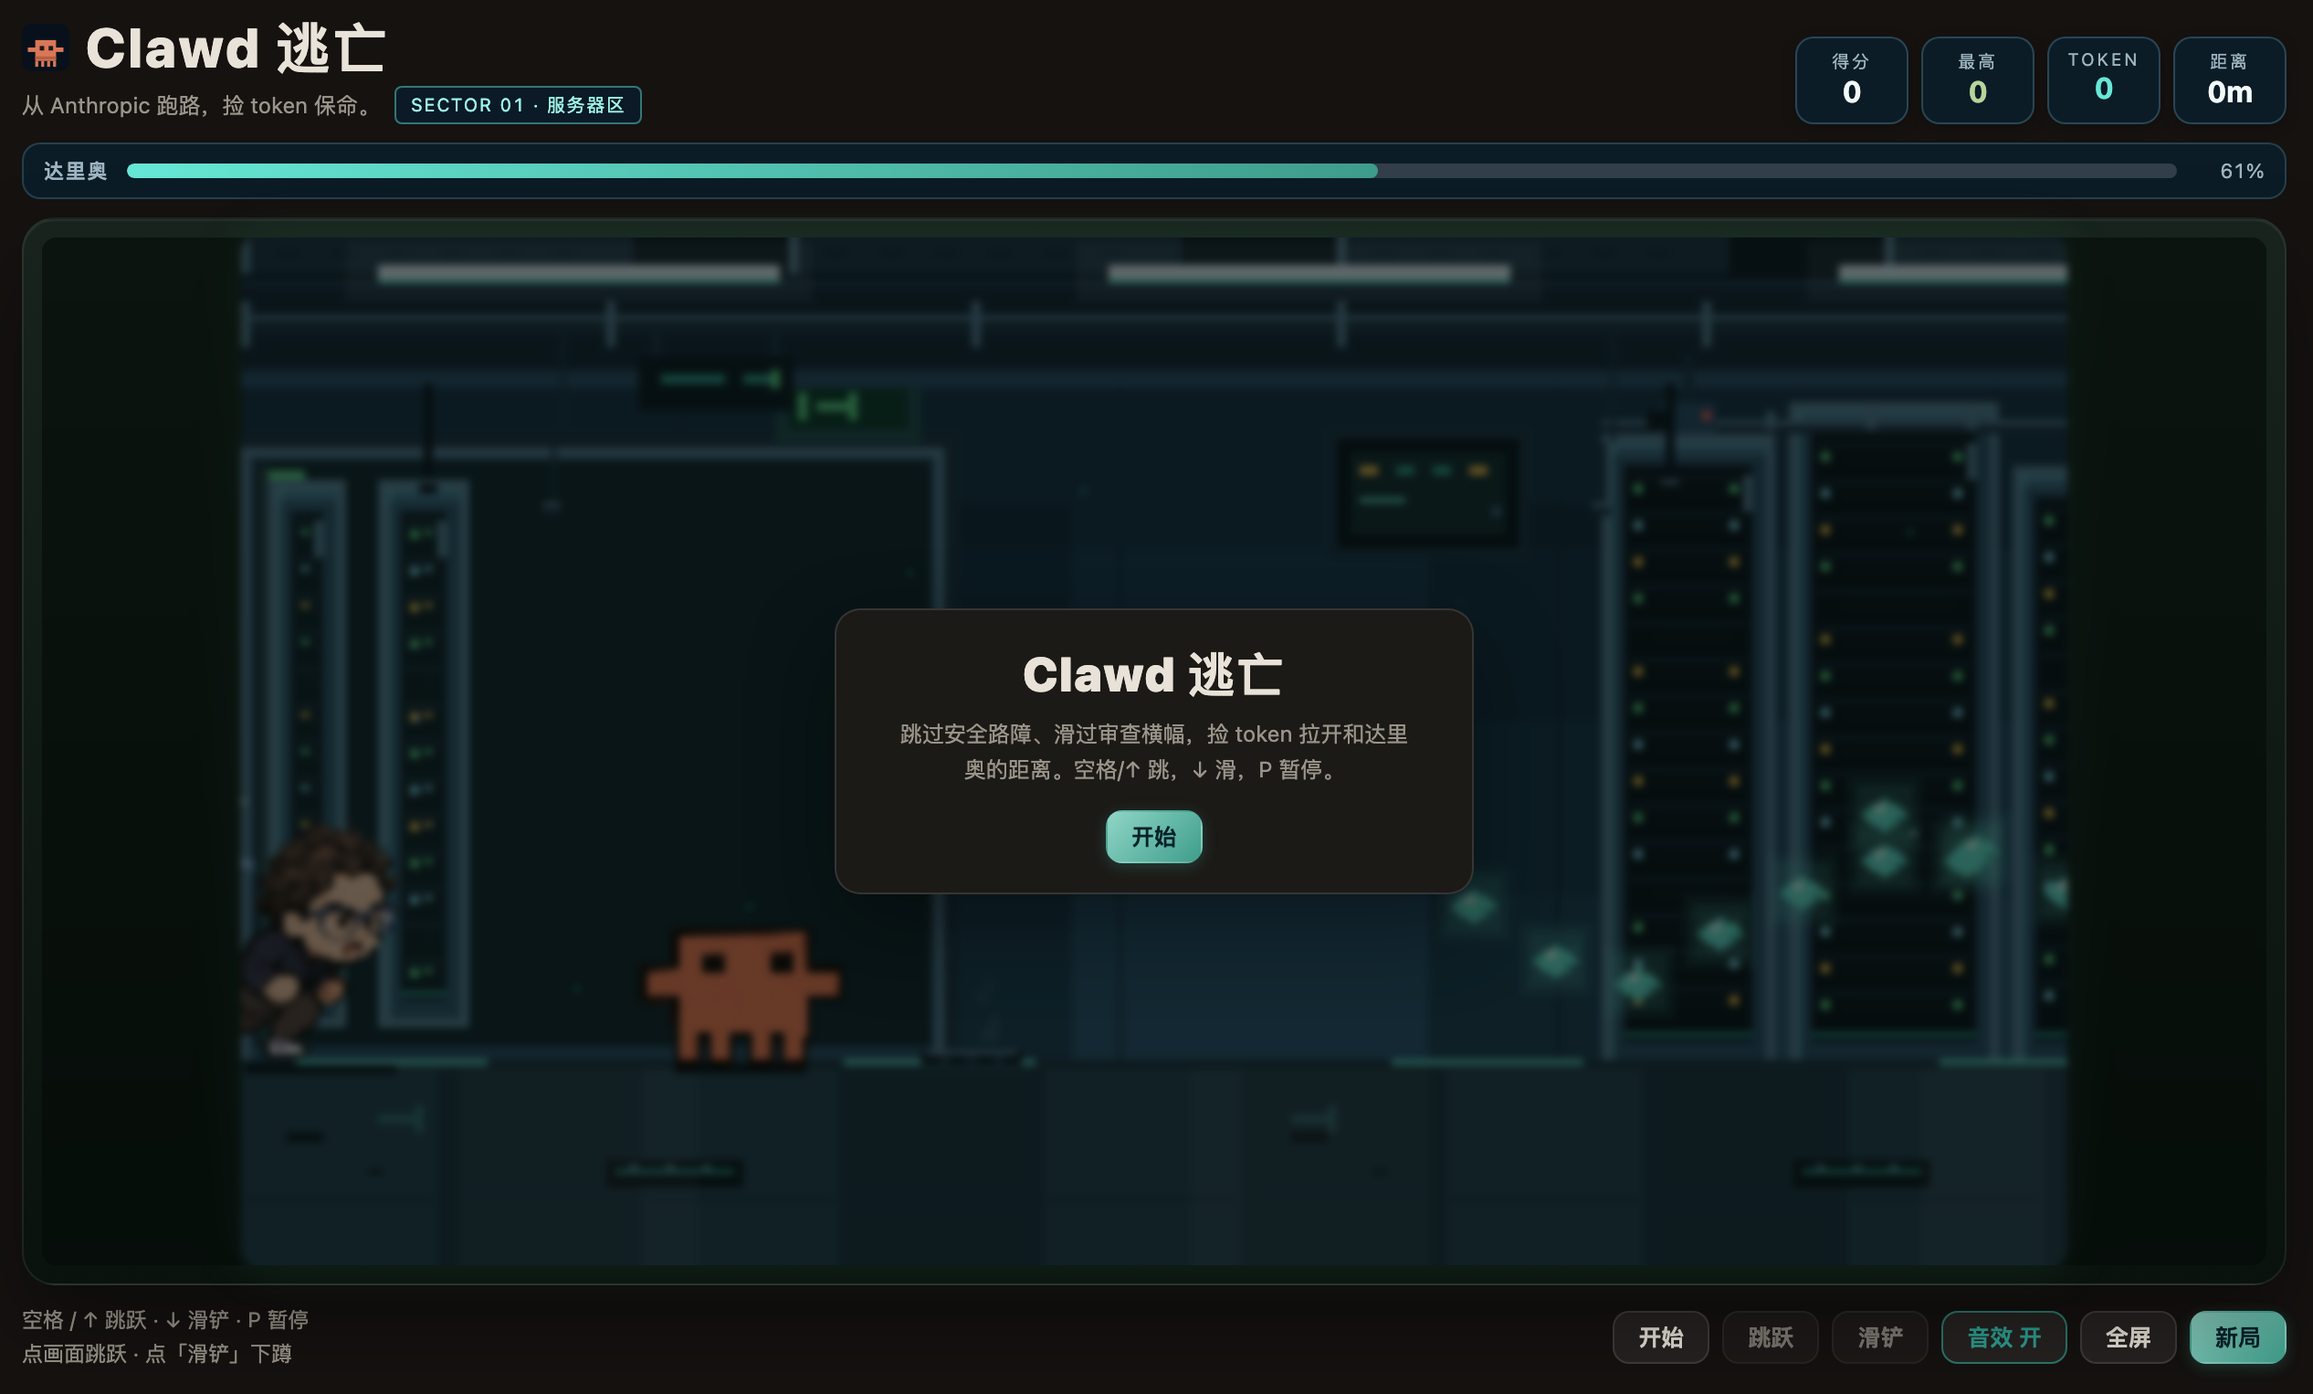
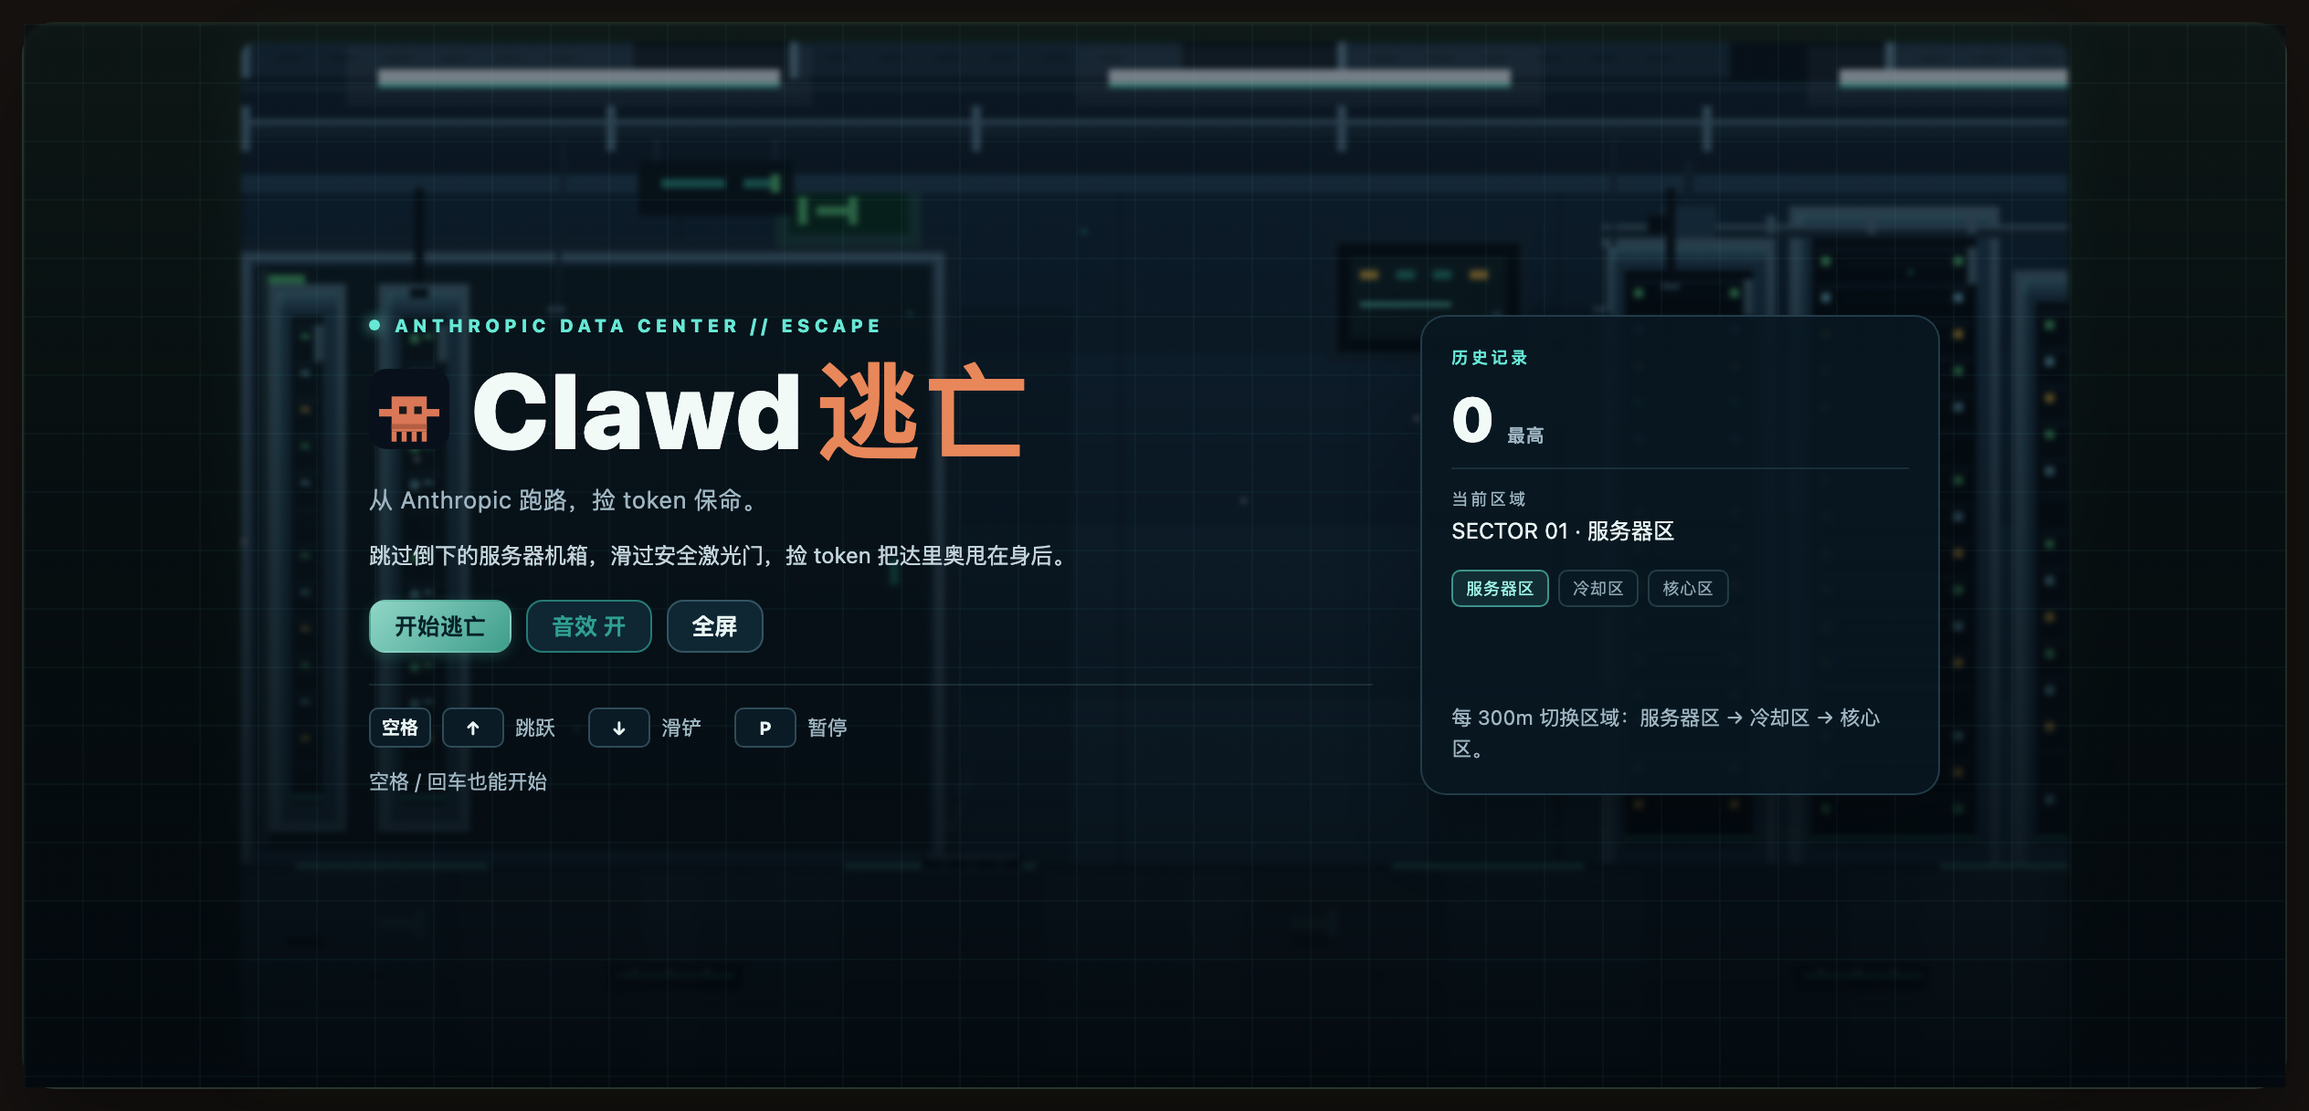
feat: 0.6.0 开始界面与统一深色游戏 UI

diff --git a/lib/client.js b/lib/client.js
@@ -1519,6 +1519,11 @@ window.__ModuleLoader__.load({
         ctx.translate(Math.round(Math.sin(now * 0.09) * shake), Math.round(Math.cos(now * 0.13) * shake))
       }
       drawBackground(ctx, game, now)
+      if (game.status === 'ready') {
+        // 开始页只留机房环境，不出现 Clawd/达里奥/障碍，避免像已经开始游戏。
+        ctx.restore()
+        return
+      }
       for (const token of game.tokensList) drawToken(ctx, token, now)
       for (const obstacle of game.obstacles) drawObstacle(ctx, obstacle, now)
       drawDario(ctx, game, now)
@@ -1556,13 +1561,49 @@ window.__ModuleLoader__.load({
       '.cr-canvas{display:block;image-rendering:pixelated;background:#07110d;border-radius:8px;touch-action:none;user-select:none;-webkit-user-select:none;box-shadow:0 0 30px rgba(80,180,140,.12),inset 0 0 0 1px rgba(140,200,170,.12);cursor:pointer}',
       '.cr-page:fullscreen{height:100vh;padding:10px 14px;background:var(--dsw-alias-bg-layer-1,#0b1210);box-sizing:border-box}',
       '.cr-page:fullscreen .cr-shell{width:min(100%,1600px)}',
-      '.cr-overlay{position:absolute;inset:10px;display:flex;align-items:center;justify-content:center;padding:16px;box-sizing:border-box;background:rgba(4,10,7,.6);border-radius:8px;backdrop-filter:blur(2px);-webkit-backdrop-filter:blur(2px);animation:cr-fade 160ms ease-out}',
+      '.cr-overlay{position:absolute;inset:10px;display:flex;align-items:center;justify-content:center;padding:16px;box-sizing:border-box;background:rgba(3,9,14,.72);border-radius:8px;backdrop-filter:blur(2px);-webkit-backdrop-filter:blur(2px);animation:cr-fade 160ms ease-out}',
       '@keyframes cr-fade{from{opacity:0}to{opacity:1}}',
-      '.cr-card{display:flex;flex-direction:column;align-items:center;gap:8px;width:min(100%,350px);padding:20px 18px 16px;box-sizing:border-box;text-align:center;border-radius:14px;background:var(--dsw-alias-bg-layer-1,#161f28);border:1px solid var(--dsw-alias-border-l1,rgba(127,127,127,.24));box-shadow:0 18px 46px rgba(0,0,0,.36);animation:cr-card-in 190ms cubic-bezier(.2,.75,.3,1)}',
+      '.cr-card{display:flex;flex-direction:column;align-items:center;gap:8px;width:min(100%,370px);padding:22px 20px 18px;box-sizing:border-box;text-align:center;border-radius:14px;background:#0b1a24;border:1px solid rgba(120,180,200,.26);box-shadow:0 18px 46px rgba(0,0,0,.4);animation:cr-card-in 190ms cubic-bezier(.2,.75,.3,1)}',
       '@keyframes cr-card-in{from{opacity:0;transform:translateY(8px) scale(.96)}to{opacity:1;transform:translateY(0) scale(1)}}',
-      '.cr-card-title{font-size:26px;font-weight:900;line-height:1.15;letter-spacing:.03em;color:var(--dsw-alias-label-primary,inherit)}',
-      '.cr-card-note{max-width:290px;font-size:12px;line-height:1.65;color:var(--dsw-alias-label-secondary,#9a9a9a)}',
-      '.cr-card-actions{display:flex;flex-wrap:wrap;justify-content:center;gap:7px;margin-top:4px}',
+      '.cr-card-title{font-size:26px;font-weight:900;line-height:1.15;letter-spacing:.03em;color:#f2faf8}',
+      '.cr-card-note{max-width:300px;font-size:12px;line-height:1.65;color:#9fb6c2}',
+      '.cr-card-actions{display:flex;flex-wrap:wrap;justify-content:center;gap:7px;margin-top:6px}',
+      '.cr-card .cr-btn{background:#0f2633;border-color:rgba(160,220,235,.26);color:#e8f4f2}',
+      '.cr-card .cr-btn:hover:not(:disabled){background:#153442;border-color:rgba(160,220,235,.45)}',
+      '.cr-overlay-start{inset:0;padding:0;border-radius:0;background:linear-gradient(180deg,rgba(3,9,14,.48),rgba(3,9,14,.96));backdrop-filter:blur(1.5px);-webkit-backdrop-filter:blur(1.5px)}',
+      '.cr-start{position:relative;width:100%;height:100%;display:flex;align-items:center;justify-content:center;padding:28px;box-sizing:border-box;overflow:auto}',
+      '.cr-start:before{content:"";position:absolute;inset:0;background-image:linear-gradient(rgba(103,232,214,.035) 1px,transparent 1px),linear-gradient(90deg,rgba(103,232,214,.035) 1px,transparent 1px);background-size:32px 32px;pointer-events:none}',
+      '.cr-start-inner{position:relative;z-index:1;width:min(100%,860px);display:grid;grid-template-columns:minmax(0,1.45fr) minmax(220px,.75fr);gap:26px;align-items:stretch}',
+      '.cr-start-main{display:flex;flex-direction:column;gap:11px;min-width:0}',
+      '.cr-start-kicker{display:flex;align-items:center;gap:8px;font-size:10px;font-weight:800;letter-spacing:.24em;color:#67e8d6;text-transform:uppercase}',
+      '.cr-start-dot{width:6px;height:6px;border-radius:50%;background:#67e8d6;box-shadow:0 0 8px #67e8d6}',
+      '.cr-start-brand{display:flex;align-items:center;gap:12px}',
+      '.cr-start-title{margin:0;font-size:clamp(36px,5vw,58px);font-weight:900;line-height:1;letter-spacing:.02em;color:#f2faf8}',
+      '.cr-start-title .cr-title-accent{color:#e8875a;margin-left:6px}',
+      '.cr-start-sub{font-size:13px;line-height:1.5;color:#9fb6c2;letter-spacing:.02em}',
+      '.cr-start-desc{max-width:520px;font-size:12px;line-height:1.6;color:#c3d4dc}',
+      '.cr-start-actions{display:flex;flex-wrap:wrap;gap:8px;margin-top:4px}',
+      '.cr-start .cr-btn{background:#0f2633;border-color:rgba(160,220,235,.26);color:#e8f4f2}',
+      '.cr-start .cr-btn:hover:not(:disabled){background:#153442;border-color:rgba(160,220,235,.45)}',
+      '.cr-start .cr-btn.is-primary{background:linear-gradient(135deg,#8fd6c6,#3f9d8b);color:#06222a;border-color:transparent}',
+      '.cr-start .cr-btn.is-primary:hover:not(:disabled){background:linear-gradient(135deg,#a0e2d2,#4aab98)}',
+      '.cr-start .cr-btn.is-on{border-color:rgba(103,232,214,.65);color:#7fe8d8}',
+      '.cr-btn-lg{padding:11px 24px;font-size:15px;border-radius:12px;box-shadow:0 5px 18px rgba(63,157,139,.3)}',
+      '.cr-start-controls{display:flex;flex-wrap:wrap;gap:10px 18px;margin-top:6px;padding-top:12px;border-top:1px solid rgba(160,220,235,.12)}',
+      '.cr-start-control{display:flex;align-items:center;gap:6px;font-size:11px;color:#9fb6c2}',
+      '.cr-key{display:inline-flex;align-items:center;justify-content:center;min-width:22px;height:20px;padding:0 5px;border-radius:5px;border:1px solid rgba(160,220,235,.25);background:#0a1b26;color:#e8f4f2;font-size:10px;font-weight:700}',
+      '.cr-start-side{display:flex;flex-direction:column;gap:10px;padding:16px;border:1px solid rgba(120,180,200,.24);border-radius:14px;background:rgba(8,22,32,.9);box-shadow:0 18px 40px rgba(0,0,0,.25)}',
+      '.cr-start-side-label{font-size:9px;letter-spacing:.2em;color:#67e8d6;text-transform:uppercase;font-weight:800}',
+      '.cr-start-record{display:flex;align-items:baseline;gap:7px;color:#f2faf8;font-size:34px;font-weight:900;line-height:1;font-variant-numeric:tabular-nums}',
+      '.cr-start-record span{font-size:10px;font-weight:600;color:#9fb6c2;letter-spacing:.04em}',
+      '.cr-start-sector{display:flex;flex-direction:column;gap:3px;padding-top:10px;border-top:1px solid rgba(160,220,235,.12);font-size:12px;color:#e8f4f2}',
+      '.cr-start-sector small{font-size:9px;letter-spacing:.16em;color:#9fb6c2;text-transform:uppercase}',
+      '.cr-start-sectors{display:flex;flex-wrap:wrap;gap:5px;margin-top:3px}',
+      '.cr-start-chip{padding:3px 7px;border-radius:5px;border:1px solid rgba(160,220,235,.18);background:#091923;color:#8fa6b3;font-size:9px;letter-spacing:.04em}',
+      '.cr-start-chip.is-active{border-color:rgba(103,232,214,.55);background:rgba(103,232,214,.1);color:#9ff5e8}',
+      '.cr-start-side-note{margin-top:auto;font-size:11px;line-height:1.55;color:#9fb6c2}',
+      '.cr-start-side .cr-btn{width:100%;justify-content:center;background:#0f2633;border-color:rgba(160,220,235,.26);color:#e8f4f2}',
+      '@media (max-width:760px){.cr-start{padding:18px}.cr-start-inner{grid-template-columns:1fr;gap:16px}.cr-start-side{display:none}.cr-start-title{font-size:42px}}',
       '.cr-toast{position:absolute;left:50%;top:22px;transform:translateX(-50%);padding:7px 14px;border-radius:999px;background:#08131f;border:1px solid rgba(120,230,210,.65);color:#eafffb;font-size:12.5px;font-weight:800;letter-spacing:.02em;white-space:nowrap;pointer-events:none;box-shadow:0 6px 20px rgba(0,0,0,.4);text-shadow:0 1px 2px rgba(0,0,0,.55);animation:cr-toast 1.2s ease-out forwards}',
       '@keyframes cr-toast{0%{opacity:0;transform:translate(-50%,6px)}14%{opacity:1;transform:translate(-50%,0)}78%{opacity:1}100%{opacity:0;transform:translate(-50%,-6px)}}',
       '.cr-foot{display:flex;align-items:center;justify-content:space-between;gap:10px;flex-wrap:wrap}',
@@ -1604,6 +1645,19 @@ window.__ModuleLoader__.load({
       'action.soundOn': '音效 开',
       'action.fullscreen': '全屏',
       'action.soundOff': '音效 关',
+      'start.brand': 'Clawd',
+      'start.accent': '逃亡',
+      'start.kicker': 'ANTHROPIC DATA CENTER // ESCAPE',
+      'start.desc': '跳过倒下的服务器机箱，滑过安全激光门，捡 token 把达里奥甩在身后。',
+      'start.cta': '开始逃亡',
+      'start.recordLabel': '历史记录',
+      'start.currentSector': '当前区域',
+      'start.sideNote': '每 300m 切换区域：服务器区 → 冷却区 → 核心区。',
+      'start.jump': '跳跃',
+      'start.slide': '滑铲',
+      'start.pause': '暂停',
+      'start.keySpace': '空格',
+      'start.enterHint': '空格 / 回车也能开始',
       'overlay.ready.title': 'Clawd 逃亡',
       'overlay.ready.note': '跳过安全路障、滑过审查横幅，捡 token 拉开和达里奥的距离。空格/↑ 跳，↓ 滑，P 暂停。',
       'overlay.paused.title': '暂停',
@@ -1641,6 +1695,19 @@ window.__ModuleLoader__.load({
       'action.soundOn': 'Sound on',
       'action.fullscreen': 'Fullscreen',
       'action.soundOff': 'Sound off',
+      'start.brand': 'Clawd',
+      'start.accent': 'Run',
+      'start.kicker': 'ANTHROPIC DATA CENTER // ESCAPE',
+      'start.desc': 'Hop fallen server crates, slide under security lasers, and grab tokens to keep Dario off your tail.',
+      'start.cta': 'Start running',
+      'start.recordLabel': 'RUN RECORD',
+      'start.currentSector': 'CURRENT SECTOR',
+      'start.sideNote': 'New sector every 300m: server hall → cooling → core.',
+      'start.jump': 'Jump',
+      'start.slide': 'Slide',
+      'start.pause': 'Pause',
+      'start.keySpace': 'Space',
+      'start.enterHint': 'Space / Enter also starts',
       'overlay.ready.title': 'Clawd Run',
       'overlay.ready.note': 'Hop the safety rails, slide under review banners, and grab tokens to keep Dario off your tail. Space/Up to jump, Down to slide, P to pause.',
       'overlay.paused.title': 'Paused',
@@ -1920,6 +1987,11 @@ window.__ModuleLoader__.load({
             else primary()
             return
           }
+          if (key === 'Enter') {
+            event.preventDefault()
+            if (status !== 'running') primary()
+            return
+          }
           if (key === 'ArrowDown' || key === 's' || key === 'S') {
             event.preventDefault()
             if (status === 'running') slideNow()
@@ -1956,12 +2028,47 @@ window.__ModuleLoader__.load({
 
       const overlay = (() => {
         if (game.status === 'ready') {
-          return h('div', { className: 'cr-overlay' },
-            h('div', { className: 'cr-card', role: 'dialog', 'aria-modal': 'false', 'aria-label': t('overlay.ready.title') },
-              h('div', { className: 'cr-card-title' }, t('overlay.ready.title')),
-              h('div', { className: 'cr-card-note' }, t('overlay.ready.note')),
-              h('div', { className: 'cr-card-actions' },
-                h('button', { type: 'button', className: 'cr-btn is-primary', onClick: primary }, t('action.start')),
+          const control = (label, keys) => h('div', { className: 'cr-start-control' },
+            keys.map((key) => h('span', { className: 'cr-key', key }, key)),
+            h('span', null, label),
+          )
+          return h('div', { className: 'cr-overlay cr-overlay-start' },
+            h('div', { className: 'cr-start' },
+              h('div', { className: 'cr-start-inner' },
+                h('div', { className: 'cr-start-main' },
+                  h('div', { className: 'cr-start-kicker' },
+                    h('span', { className: 'cr-start-dot' }),
+                    t('start.kicker')),
+                  h('div', { className: 'cr-start-brand' },
+                    h(LogoClawd, { size: 44 }),
+                    h('h1', { className: 'cr-start-title' },
+                      t('start.brand'),
+                      h('span', { className: 'cr-title-accent' }, t('start.accent')))),
+                  h('div', { className: 'cr-start-sub' }, t('panel.subtitle')),
+                  h('div', { className: 'cr-start-desc' }, t('start.desc')),
+                  h('div', { className: 'cr-start-actions' },
+                    h('button', { type: 'button', className: 'cr-btn is-primary cr-btn-lg', onClick: primary }, t('start.cta')),
+                    h('button', { type: 'button', className: 'cr-btn' + (soundOn ? ' is-on' : ''), onClick: toggleSound, 'aria-pressed': soundOn ? 'true' : 'false' }, soundOn ? t('action.soundOn') : t('action.soundOff')),
+                    h('button', { type: 'button', className: 'cr-btn', onClick: toggleFullscreen }, t('action.fullscreen')),
+                  ),
+                  h('div', { className: 'cr-start-controls' },
+                    control(t('start.jump'), [t('start.keySpace'), '↑']),
+                    control(t('start.slide'), ['↓']),
+                    control(t('start.pause'), ['P']),
+                  ),
+                  h('div', { className: 'cr-start-control', style: { marginTop: '0' } }, h('span', null, t('start.enterHint'))),
+                ),
+                h('div', { className: 'cr-start-side' },
+                  h('div', { className: 'cr-start-side-label' }, t('start.recordLabel')),
+                  h('div', { className: 'cr-start-record' }, String(liveBest), h('span', null, t('stat.best'))),
+                  h('div', { className: 'cr-start-sector' },
+                    h('small', null, t('start.currentSector')),
+                    sectorLabel),
+                  h('div', { className: 'cr-start-sectors' },
+                    ['sector.server', 'sector.cooling', 'sector.core'].map((key, index) =>
+                      h('span', { className: 'cr-start-chip' + (index === 0 ? ' is-active' : ''), key }, t(key)))),
+                  h('div', { className: 'cr-start-side-note' }, t('start.sideNote')),
+                ),
               ),
             ),
           )
@@ -2006,7 +2113,7 @@ window.__ModuleLoader__.load({
         h(
           'div',
           { className: 'cr-shell' },
-          h(
+          game.status === 'ready' ? null : h(
             'div',
             { className: 'cr-head' },
             h(
@@ -2022,7 +2129,7 @@ window.__ModuleLoader__.load({
                 t('panel.subtitle'),
                 h('span', { className: 'cr-sector' }, sectorLabel)),
             ),
-            h(
+            game.status === 'ready' ? null : h(
               'div',
               { className: 'cr-stats' },
               stat(t('stat.score'), game.score),
@@ -2031,7 +2138,7 @@ window.__ModuleLoader__.load({
               stat(t('stat.distance'), distance + 'm'),
             ),
           ),
-          h(
+          game.status === 'ready' ? null : h(
             'div',
             { className: 'cr-chase' + chaseClass },
             h('span', { className: 'cr-chase-label' }, t('hud.chaser')),
@@ -2057,7 +2164,7 @@ window.__ModuleLoader__.load({
             overlay,
             toast ? h('div', { className: 'cr-toast', key: toast.ts }, toast.text) : null,
           ),
-          h(
+          game.status === 'ready' ? null : h(
             'div',
             { className: 'cr-foot' },
             h('div', { className: 'cr-hint' },

diff --git a/README.md b/README.md
@@ -11,9 +11,19 @@
 > Dario off your tail, and watch the chase meter. Clawd uses user-provided running / sliding GIF
 > animations (12 frames each), and Dario a user-provided running GIF — both embedded as sprite
 > sheets. 400×225 canvas (roughly 1000×563 CSS in the panel, with a fullscreen button), integer
-> pixel scaling. Works standalone, or folds into `dsh-plugin-arcade`.
+> pixel scaling. Opens on a proper start screen (record, sector preview, controls), and only
+> starts running when you press start / Space / Enter. Works standalone, or folds into `dsh-plugin-arcade`.
 
 ---
+
+## 开始界面
+
+打开面板先进入标题页，不会直接开跑：
+
+- 左侧：游戏标题、说明、**开始逃亡**、音效开关、全屏、操作键位；
+- 右侧：历史最高分、当前区域、三个区域预告；
+- 标题页不显示游戏 HUD、角色和障碍，只留机房地景，避免误以为游戏已经开始；
+- 点「开始逃亡」、按空格或回车才正式进入游戏；暂停和结算也是独立的深色 UI。
 
 ## 长什么样
 
